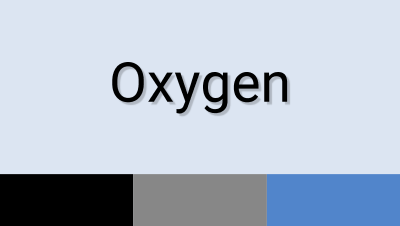
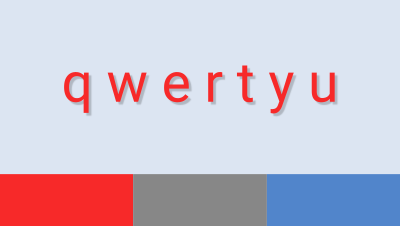
Insert zip content

diff --git a/.contentfusion/templates/q w e r t y u/styles.css b/.contentfusion/templates/q w e r t y u/styles.css
@@ -1,5 +1,5 @@
 /*#
-@colors&{"titlesAccentColor":"#000000","labelsAccentColor":"#878787","linksAccentColor":"#5185cb","backgroundAccentColor":"#dce5f2","isDefault":true}&colors@
+@colors&{"titlesAccentColor":"#f72929","labelsAccentColor":"#878787","linksAccentColor":"#5185cb","backgroundAccentColor":"#dce5f2","isDefault":true}&colors@
 @info@STYLES BASKET SELECTIONS METADATA@info@
 @name&styles_basket&name@
 @aspects&wh-tiles,accent-colors-selector,wh-menu-page-colors-white-color-black-bg,wh-breadcrumb-colors-labels-colors-bg,wh-search-component-background-color-dark,wh-footer-background-color-dark,fonts-selector,wh-search-component-padding-extra-extra-large,notes-layout-two-lines,notes-style-borders-box,notes-colors-colorful,table-colors-black-white,wh-tiles-themes-titles-and-link-bg&aspects@
@@ -68,7 +68,7 @@
 *[class~="placeholder/figurelist"] > *[class~="topic/title"],
 *[class~="placeholder/tablelist"] > *[class~="topic/title"],
 *[class~="index/groups"]::before {
-  color: #000000;
+  color: #f72929;
 }
 *[class~='topic/shortdesc']:before {
   color: #878787;
@@ -169,7 +169,7 @@ span.note__title {
   margin-top: 1em;
   margin-bottom: 0.5em;
   text-align: center;
-  color: #000000;
+  color: #f72929;
 }
 /*wh-menu-page-colors-white-color-black-bg*/
 .wh_header {
